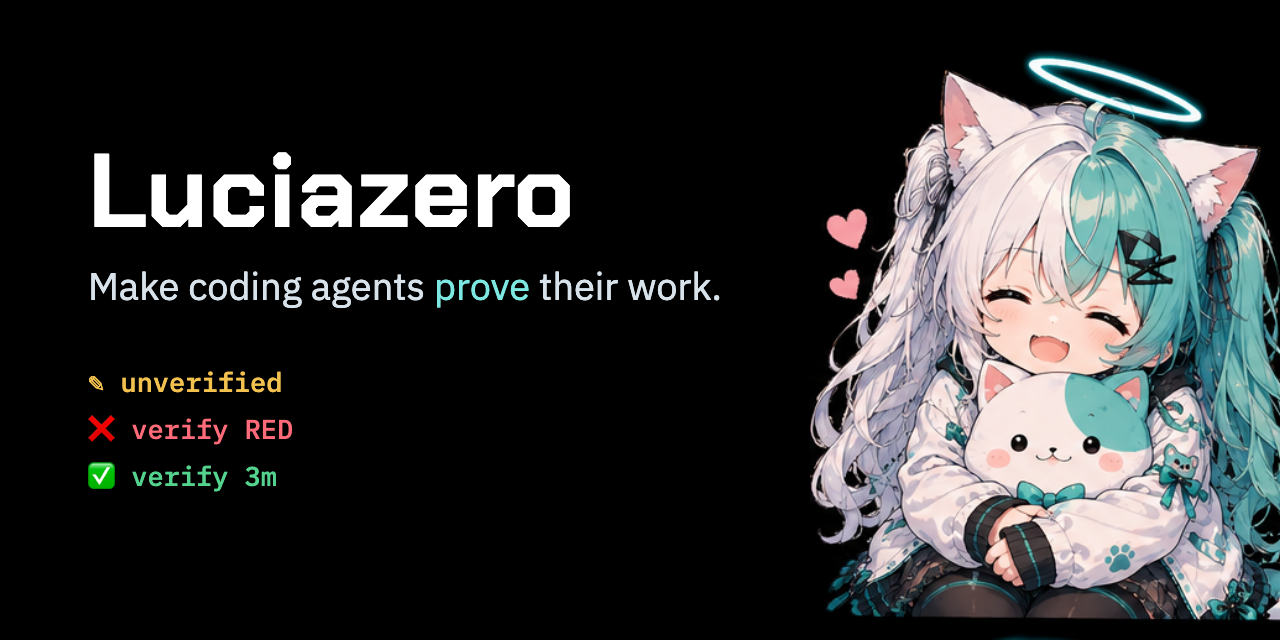
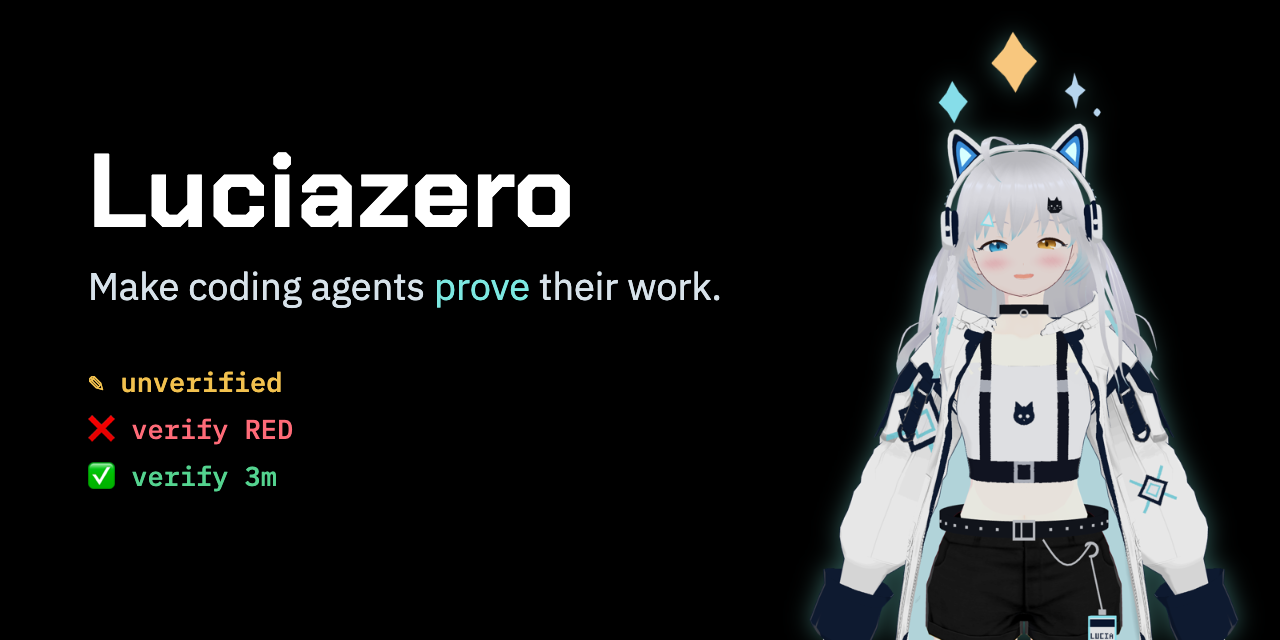
feat(site): show the 3D Lucia on the website and social card
The website and its 1280x640 social card now use the half-body render of
Lucia's VRM model (docs/assets/lucia-3d.png, 640x800, transparent) instead
of the 2D mascot. The site serves its own copy at site/lucia-3d.png, because
Pages publishes only site/, so the hero image no longer depends on jsDelivr.

The model's navy gloves and black shorts disappear on the black statusline
panel, so the image gets a soft cyan drop-shadow rim; the image is cut below
the hips and that edge sits on the panel's rule. site/og.png is now rendered
from docs/assets/og-card.html, which records the render command, with the cut
edge on the card's bottom edge.

The READMEs keep the 2D mascot for now: their image URL must pin a main
commit through jsDelivr for the npm page, and this commit's SHA changes when
the branch is rebased onto main. A follow-up switches them.

Changed region(s): [[0.625, 0.0625, 1.0, 1.0]]

diff --git a/docs/assets/og-card.html b/docs/assets/og-card.html
@@ -1,0 +1,36 @@
+<!doctype html>
+<!--
+  Source of site/og.png, the 1280×640 social card (og:image and GitHub Social preview).
+  Render from docs/assets/:
+    "/Applications/Google Chrome.app/Contents/MacOS/Google Chrome" --headless=new --hide-scrollbars \
+      --force-device-scale-factor=1 --window-size=1280,640 --virtual-time-budget=8000 \
+      --screenshot=../../site/og.png "file://$PWD/og-card.html"
+  Then check `file site/og.png` reports 1280 x 640 and look at the image before committing.
+-->
+<html><head><meta charset="utf-8">
+<link rel="stylesheet" href="https://fonts.googleapis.com/css2?family=Chakra+Petch:wght@700&family=IBM+Plex+Mono:wght@500&family=IBM+Plex+Sans+Thai:wght@400&display=block">
+<style>
+html,body{margin:0;width:1280px;height:640px;overflow:hidden;background:#000;color:#d7e2ea}
+.card{position:relative;width:1280px;height:640px;display:grid;grid-template-columns:1fr 512px;align-items:center}
+.left{padding:0 0 0 88px}
+.name{font:700 104px/1 "Chakra Petch",sans-serif;letter-spacing:.01em;color:#fff;margin:0 0 22px}
+.tag{font:400 38px/1.25 "IBM Plex Sans Thai",sans-serif;color:#d7e2ea;margin:0 0 44px;max-width:640px}
+.tag b{color:#7ce8e1;font-weight:400}
+.states{font:500 27px/1.75 "IBM Plex Mono",monospace;margin:0;padding:0;list-style:none}
+.a{color:#f2c14e}.r{color:#ff6b78}.g{color:#54d38f}
+/* the image is cut below the hips, so it runs to the card's bottom edge; the cyan
+   rim keeps the navy gloves and black shorts visible on black, as on the site */
+img{width:512px;height:640px;display:block;align-self:end;filter:drop-shadow(0 0 12px rgba(124,232,225,.4))}
+</style></head>
+<body><div class="card">
+<div class="left">
+<p class="name">Luciazero</p>
+<p class="tag">Make coding agents <b>prove</b> their work.</p>
+<ul class="states">
+<li><span class="a">✎ unverified</span></li>
+<li><span class="r">❌ verify RED</span></li>
+<li><span class="g">✅ verify 3m</span></li>
+</ul>
+</div>
+<img src="lucia-3d.png" alt="">
+</div></body></html>

diff --git a/site/style.css b/site/style.css
@@ -1,6 +1,7 @@
 /* Luciazero site. Palette from the mascot: silver hair (paper), teal hair
-   (accent), halo cyan (terminal accent); the three statusline colors are the
-   only other hues. Dark mode follows the system setting. */
+   streaks and jacket lining (accent), cyan sparkles (terminal accent, still
+   named --halo after the 2D mascot); the three statusline colors are the only
+   other hues. Dark mode follows the system setting. */
 :root {
   --paper: #f2f5f7;
   --paper-2: #e5ebef;
@@ -89,7 +90,12 @@ h1 em { font-style: normal; color: var(--teal); }
 .term-bar { display: flex; align-items: center; gap: 8px; padding: 12px 16px; font: 500 0.8rem/1 var(--mono); color: var(--term-dim); }
 .term-bar i { width: 10px; height: 10px; border-radius: 50%; background: #26323b; }
 .term-bar span { margin-left: 8px; }
-.term img { display: block; width: 72%; margin: 0 auto; }
+/* a soft cyan rim so the navy gloves and black shorts keep their outline on
+   the black terminal; the image's cut edge sits on the rule below */
+.term img {
+  display: block; width: 72%; margin: 0 auto;
+  filter: drop-shadow(0 0 8px color-mix(in srgb, var(--halo) 40%, transparent));
+}
 .states { list-style: none; margin: 0; padding: 18px 20px 22px; border-top: 1px solid #1c262e; }
 .states li { display: grid; grid-template-columns: 9.5em 1fr; gap: 12px; padding: 6px 0; font-size: 0.9rem; animation: state 9s infinite; }
 .states code { font-weight: 500; }

diff --git a/site/th/index.html b/site/th/index.html
@@ -81,7 +81,7 @@
     </div>
     <figure class="term" aria-label="statusline ของ Luciazero และความหมายของแต่ละสถานะ">
       <div class="term-bar" aria-hidden="true"><i></i><i></i><i></i><span>statusline</span></div>
-      <img src="https://cdn.jsdelivr.net/gh/ohm41321/luciazero@37cb470e2b7c704ff32f3a46dbb125e312875960/docs/assets/lucia.png" width="384" height="485" alt="ลูเซีย มาสคอตของ Luciazero กอดตุ๊กตาแมว">
+      <img src="../lucia-3d.png" width="640" height="800" alt="ลูเซีย มาสคอตของ Luciazero ร่าง 3D ใส่หูฟังหูแมว">
       <ol class="states">
         <li class="s-edit"><code>✎ unverified</code><span>มีการแก้หลังการตรวจครั้งล่าสุด</span></li>
         <li class="s-red"><code>❌ verify RED</code><span>การตรวจครั้งล่าสุดไม่ผ่าน</span></li>

diff --git a/site/index.html b/site/index.html
@@ -81,7 +81,7 @@
     </div>
     <figure class="term" aria-label="The Luciazero statusline and what each state means">
       <div class="term-bar" aria-hidden="true"><i></i><i></i><i></i><span>statusline</span></div>
-      <img src="https://cdn.jsdelivr.net/gh/ohm41321/luciazero@37cb470e2b7c704ff32f3a46dbb125e312875960/docs/assets/lucia.png" width="384" height="485" alt="Lucia, the Luciazero mascot, hugging a cat plush">
+      <img src="lucia-3d.png" width="640" height="800" alt="Lucia, the Luciazero mascot, as a 3D model with cat-ear headphones">
       <ol class="states">
         <li class="s-edit"><code>✎ unverified</code><span>edits happened after the last check</span></li>
         <li class="s-red"><code>❌ verify RED</code><span>the latest check failed</span></li>

diff --git a/CHANGELOG.md b/CHANGELOG.md
@@ -24,6 +24,13 @@ Versioning: [Semantic Versioning](https://semver.org/spec/v2.0.0.html).
 
 - `homepage` in `package.json` and `.claude-plugin/plugin.json` now points at
   the website, and both READMEs link to it next to the language switch.
+- The website and its social card use the 3D (VRM) render of Lucia,
+  `docs/assets/lucia-3d.png`, in place of the 2D mascot. The site serves its
+  own copy, `site/lucia-3d.png`, so the page no longer depends on jsDelivr, and
+  a soft cyan rim keeps the mascot's navy gloves and black shorts visible on
+  the black statusline panel. `site/og.png` is now rendered from
+  `docs/assets/og-card.html`, which records the render command. The READMEs
+  still show the 2D mascot until the new image has a `main` commit to pin.
 
 ## [2.6.0] - 2026-09-22
 

diff --git a/docs/publishing.md b/docs/publishing.md
@@ -421,6 +421,12 @@ When the page text changes, keep the skill count and skill list in step with
 `skills/catalog.txt` (the checker fails otherwise) and add any new page to
 `PAGES` in the checker and to `sitemap.xml`.
 
+The mascot on the site is `site/lucia-3d.png`, a copy of
+`docs/assets/lucia-3d.png` (the site publishes only `site/`, so it cannot
+reference `docs/`). `site/og.png` is rendered from `docs/assets/og-card.html`;
+the render command is in that file. When the mascot changes, update both copies,
+re-render the card, and upload it again as the social preview.
+
 ## Channel honesty
 
 The classic `./install.sh` remains the reference channel — it is the only one
